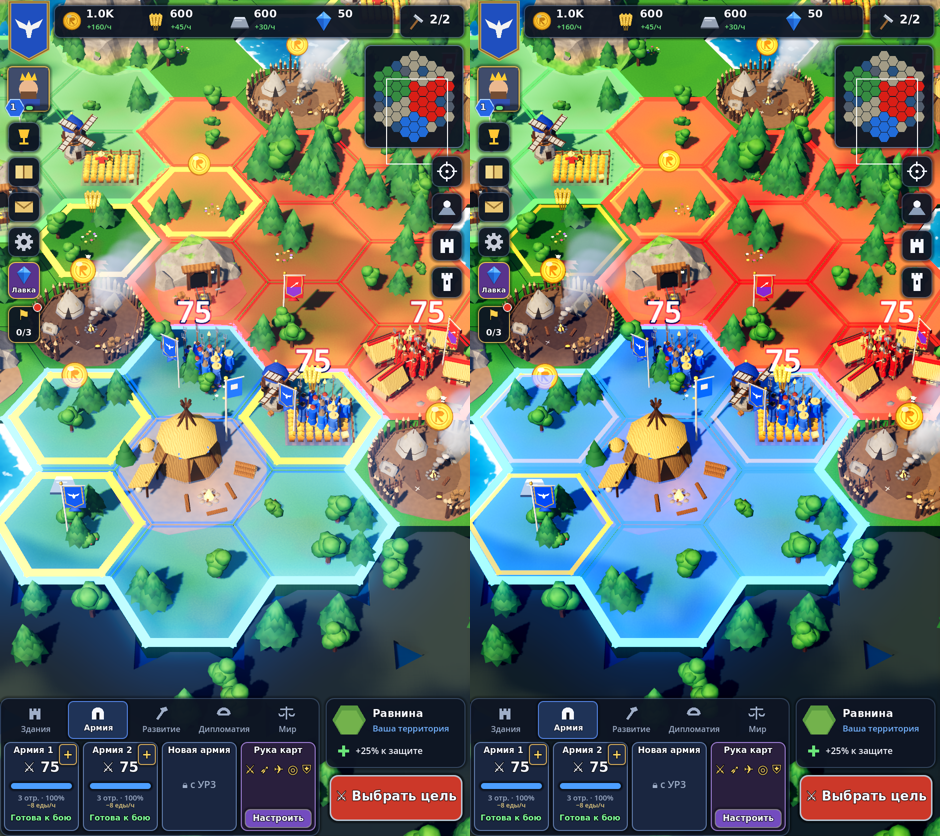
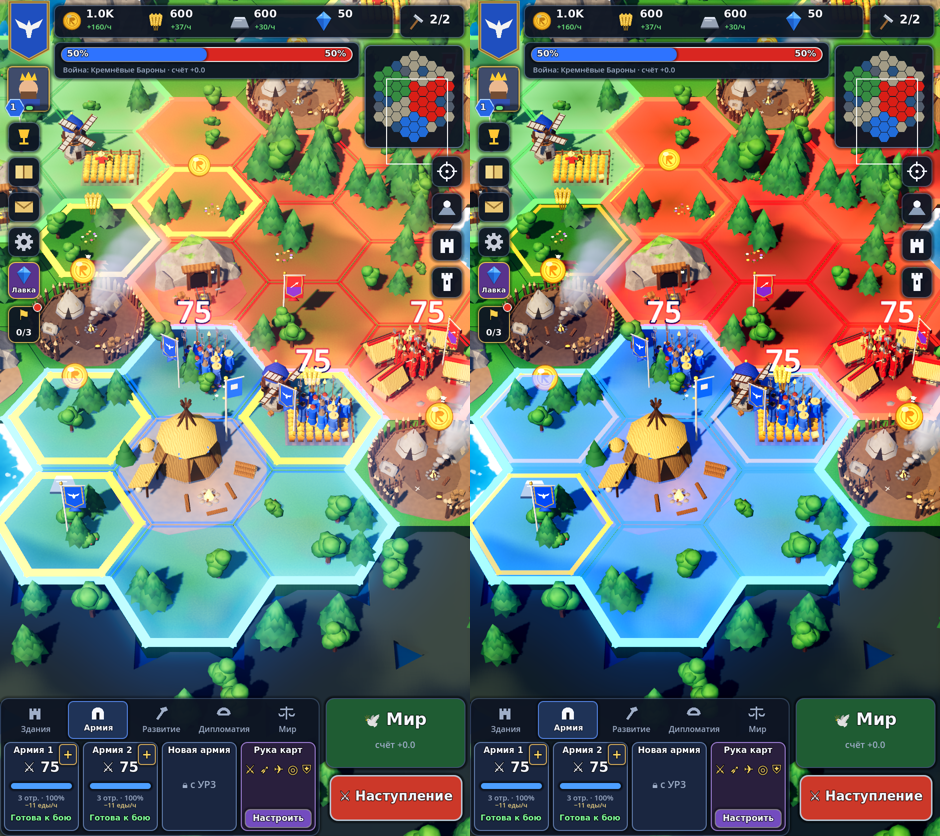
A multiply darkening under AI fills: light for neighbours, stronger for the enemy at war — the ground darkens and the red reads crimson, as in the concept art
Claude-Session: https://claude.ai/code/session_01Gm1xuL6Hscrx7wka3sjbP5

diff --git a/docs/dev/dev_log.md b/docs/dev/dev_log.md
@@ -101,4 +101,5 @@
 - **Настроение на лицах:** кит портретов научился выражениям — гнев (брови опущены к переносице, уголки рта вниз) и улыбка (брови выше, уголки вверх). Лидер в ультиматуме смотрит сердито, на мирной конференции улыбается, в дипломатии спокоен. Портрет ищет рендер нужного настроения и эпохи, при его отсутствии — спокойный. 20 новых рендеров (10 лидеров × 2 настроения).
 - **Каменная стена (укрепление ур. 3):** башни получили тёмный цоколь, две каменные тяги, три бойницы, зубчатый парапет из восьми мерлонов и золочёный шпиль на сланцевом конусе; у пролётов стены — цоколь и тяга. На карте башни читаются как кладка, а не гладкие цилиндры (было/стало — `docs/screens/godot_v10_fort_l3_detail.png`).
 - **Цвета территорий по эталону (концепт-арт `docs/assets/concepts.webp`, запрос владельца «эталон — исходные скриншоты»):** заливка своих гексов — глубокий королевский синий вместо лазурного (лазурь поверх яркой травы давала бирюзу), заливки плотнее (в центре 0,26, у кромки до 0,74), внутренняя сетка гексов шире и ярче, жёлтый контур залежей тоньше, чтобы не перебивал синий/красный; экспозиция 0,86, контраст 1,18, насыщенность 1,28 — картинка темнее и сочнее, как в эталоне.
-- Дальше: ближе к эталону — тёмная выжженная земля под вражеской заливкой, туман и горы по краю мира, затем укрепления ур. 4–5.
+- Под заливкой государств ИИ — слой затемнения умножением: у соседей лёгкий, у противника в войне сильнее (земля темнеет, красный становится бордовым, как в эталоне).
+- Дальше: туман и горы по краю мира, затем укрепления ур. 4–5.
